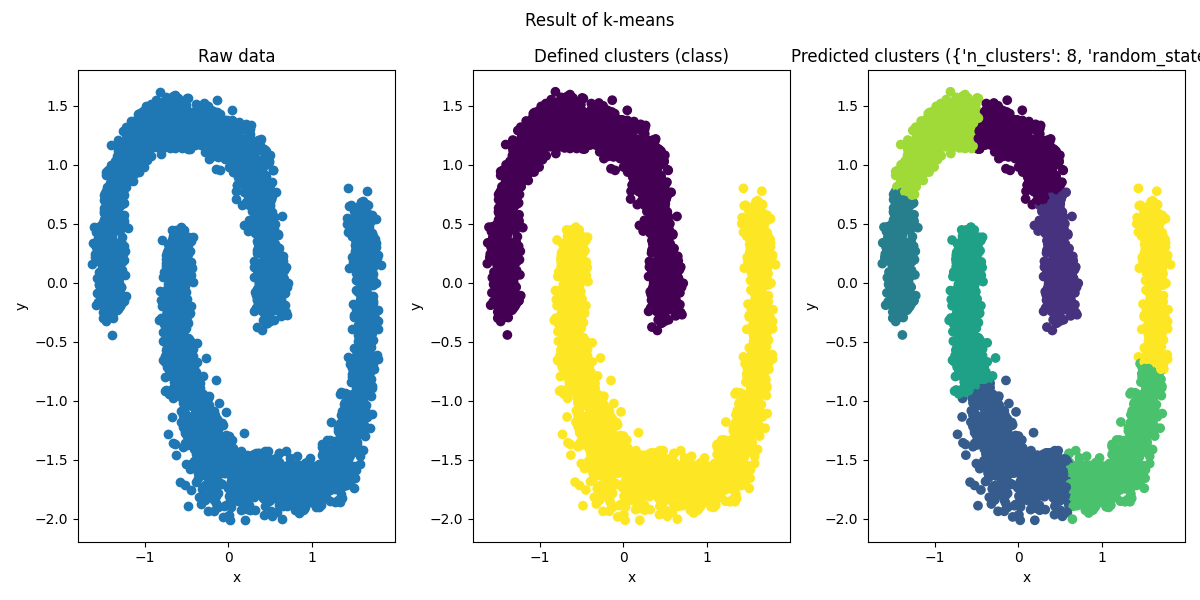
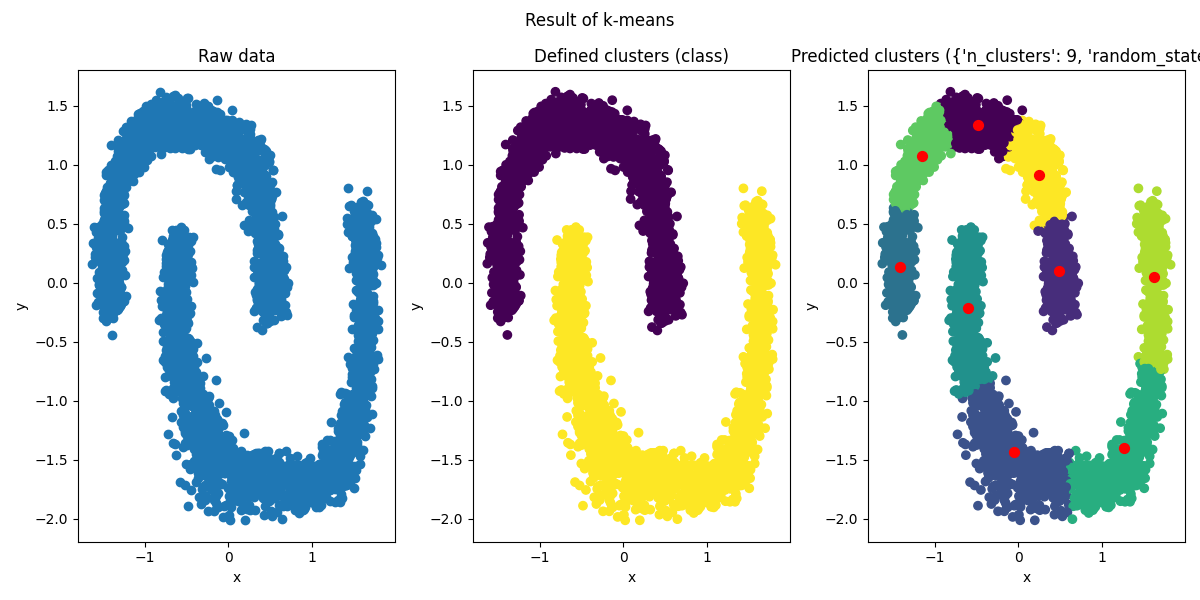
meh

diff --git a/src/absolute.py b/src/absolute.py
@@ -1,5 +1,5 @@
 from pathlib import Path
-from typing import Any, Dict, List, Literal, Tuple, TypedDict
+from typing import Any, Dict, List, Literal, Tuple, TypedDict, Optional
 
 import matplotlib.pyplot as plt
 import numpy as np
@@ -32,6 +32,7 @@ Prediction = TypedDict(
     {
         "params": Params,
         "labels": npt.NDArray,
+        "metadata": Dict[str, Any]
     }
 )
 
@@ -138,6 +139,9 @@ def plot_result(
     axes[1].set_ylabel(X_columns[1])
 
     axes[2].scatter(first_column, second_column, c=prediction["labels"])
+    if method_type == "k-means" and "metadata" in prediction and "centroids" in prediction["metadata"]:
+        centroids = prediction["metadata"]["centroids"]
+        axes[2].scatter(centroids[:, 0], centroids[:, 1], c="red", marker=".", s=200, label="Centroids")
     axes[2].set_title(f"Predicted clusters ({prediction['params']})")
     axes[2].set_xlabel(X_columns[0])
     axes[2].set_ylabel(X_columns[1])
@@ -165,6 +169,12 @@ def process_for_kmeans(X: npt.NDArray) -> Prediction:
 
     best_kmeans = KMeans(n_clusters=k_clusters_silhouette, random_state=42)
     best_prediction = best_kmeans.fit_predict(X)
+    centroids = best_kmeans.cluster_centers_
+
+    # figure, axes = plt.subplots(1, 1, figsize=(8, 6))
+    # axes.scatter(X[:, 0], X[:, 1], c=best_prediction, cmap="viridis", s=30, alpha=0.6)
+    # axes.scatter(centroids[:, 0], centroids[:, 1], c="red", marker=".", s=200, label="Centroids")
+    # axes.set_title(f"KMeans clustering avec k={k_clusters_silhouette} (silhouette score={sil_score:.2f})")
 
     return {
         "params": {
@@ -172,6 +182,9 @@ def process_for_kmeans(X: npt.NDArray) -> Prediction:
             "random_state": 42
         },
         "labels": best_prediction,
+        "metadata": {
+            "centroids": centroids
+        }
     }
 
 
@@ -195,6 +208,7 @@ def process_for_agglo(X: npt.NDArray) -> Prediction:
             "n_clusters": k_clusters_silhouette,
         },
         "labels": best_prediction,
+        "metadata": {}
     }
 
 def process_for_dbscan(X: npt.NDArray) -> Prediction:
@@ -251,13 +265,22 @@ def process_for_dbscan(X: npt.NDArray) -> Prediction:
             "min_samples": min_points,
         },
         "labels": best_prediction,
+        "metadata": {}
     }
 
 
 def process_for_hdbscan(X: npt.NDArray) -> Prediction:
+    min_cluster_size = get_min_points_for_dbscan(X)
+
+    hdbscan = HDBSCAN(min_cluster_size=min_cluster_size)
+    best_prediction = hdbscan.fit_predict(X)
+
     return {
-        "params": {},
-        "labels": HDBSCAN().fit_predict(X),
+        "params": {
+            "min_cluster_size": min_cluster_size,
+        },
+        "labels": best_prediction,
+        "metadata": {}
     }
 
 
@@ -286,6 +309,7 @@ def process_file(method_type: MethodType, filename: str) -> None:
     directory.mkdir(exist_ok=True)
 
     figure = plot_result(method_type, X_columns, X, y_column, y, best_prediction)
+
     figure.tight_layout()
     figure.savefig(directory / f"{method_type}.png")
     plt.close(figure)
@@ -293,12 +317,14 @@ def process_file(method_type: MethodType, filename: str) -> None:
 
 if __name__ == "__main__":
     test_cases: List[Tuple[MethodType, List[str]]] = [
-        ("k-means", ["diamond9.arff", "banana.arff", "birch-rg2.arff"]),
-        ("agglo", ["diamond9.arff", "banana.arff", "birch-rg2.arff"]),
-        ("dbscan", ["diamond9.arff", "banana.arff", "birch-rg2.arff"]),
-        ("hdbscan", ["diamond9.arff", "banana.arff", "birch-rg2.arff"]),
+        ("k-means", ["2d-10c.arff", "diamond9.arff", "banana.arff", "twenty.arff"]),
+        ("agglo", ["diamond9.arff", "banana.arff"]),
+        ("dbscan", ["jain.arff", "spiral.arff", "diamond9.arff", "atom.arff", "twenty.arff"]),
+        ("hdbscan", ["jain.arff", "diamond9.arff", "banana.arff"]),
     ]
 
     for method_type, arff_files in test_cases:
+        print(f"Processing {method_type}...")
         for arff_file in arff_files:
+            print(f"--> {arff_file}")
             process_file(method_type, arff_file)
